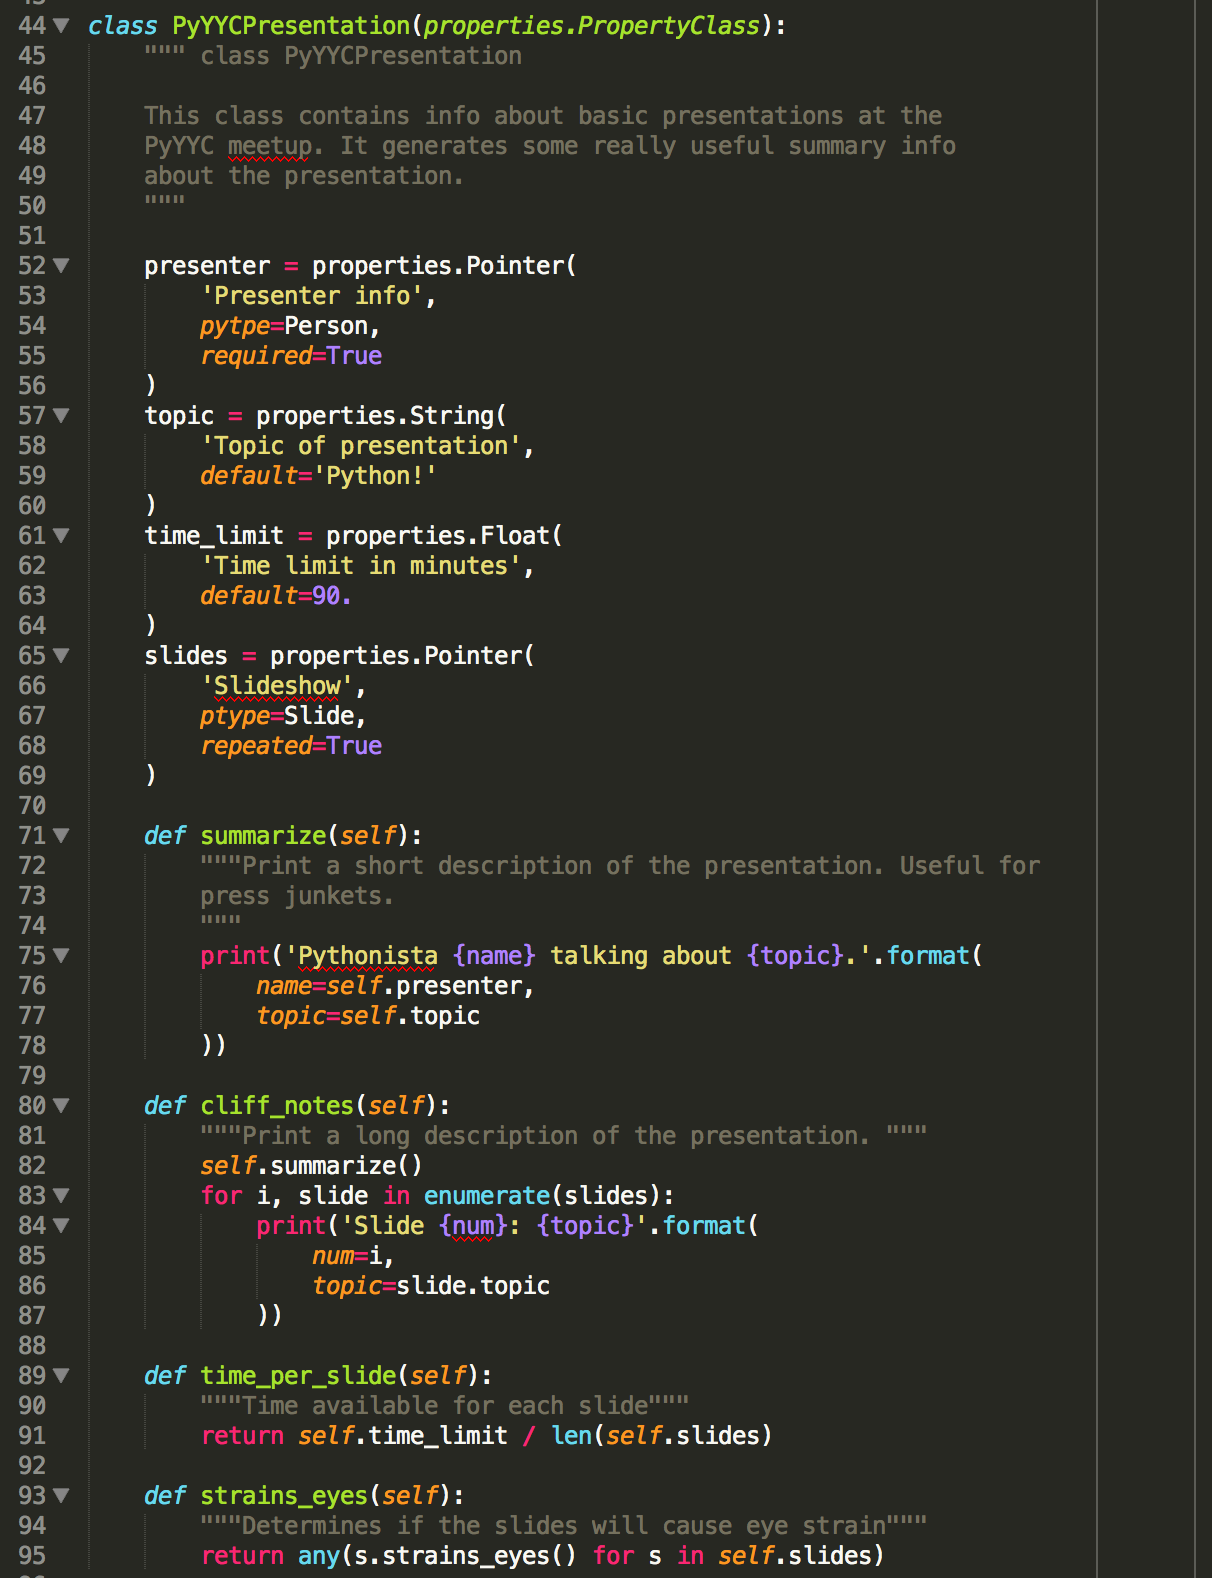
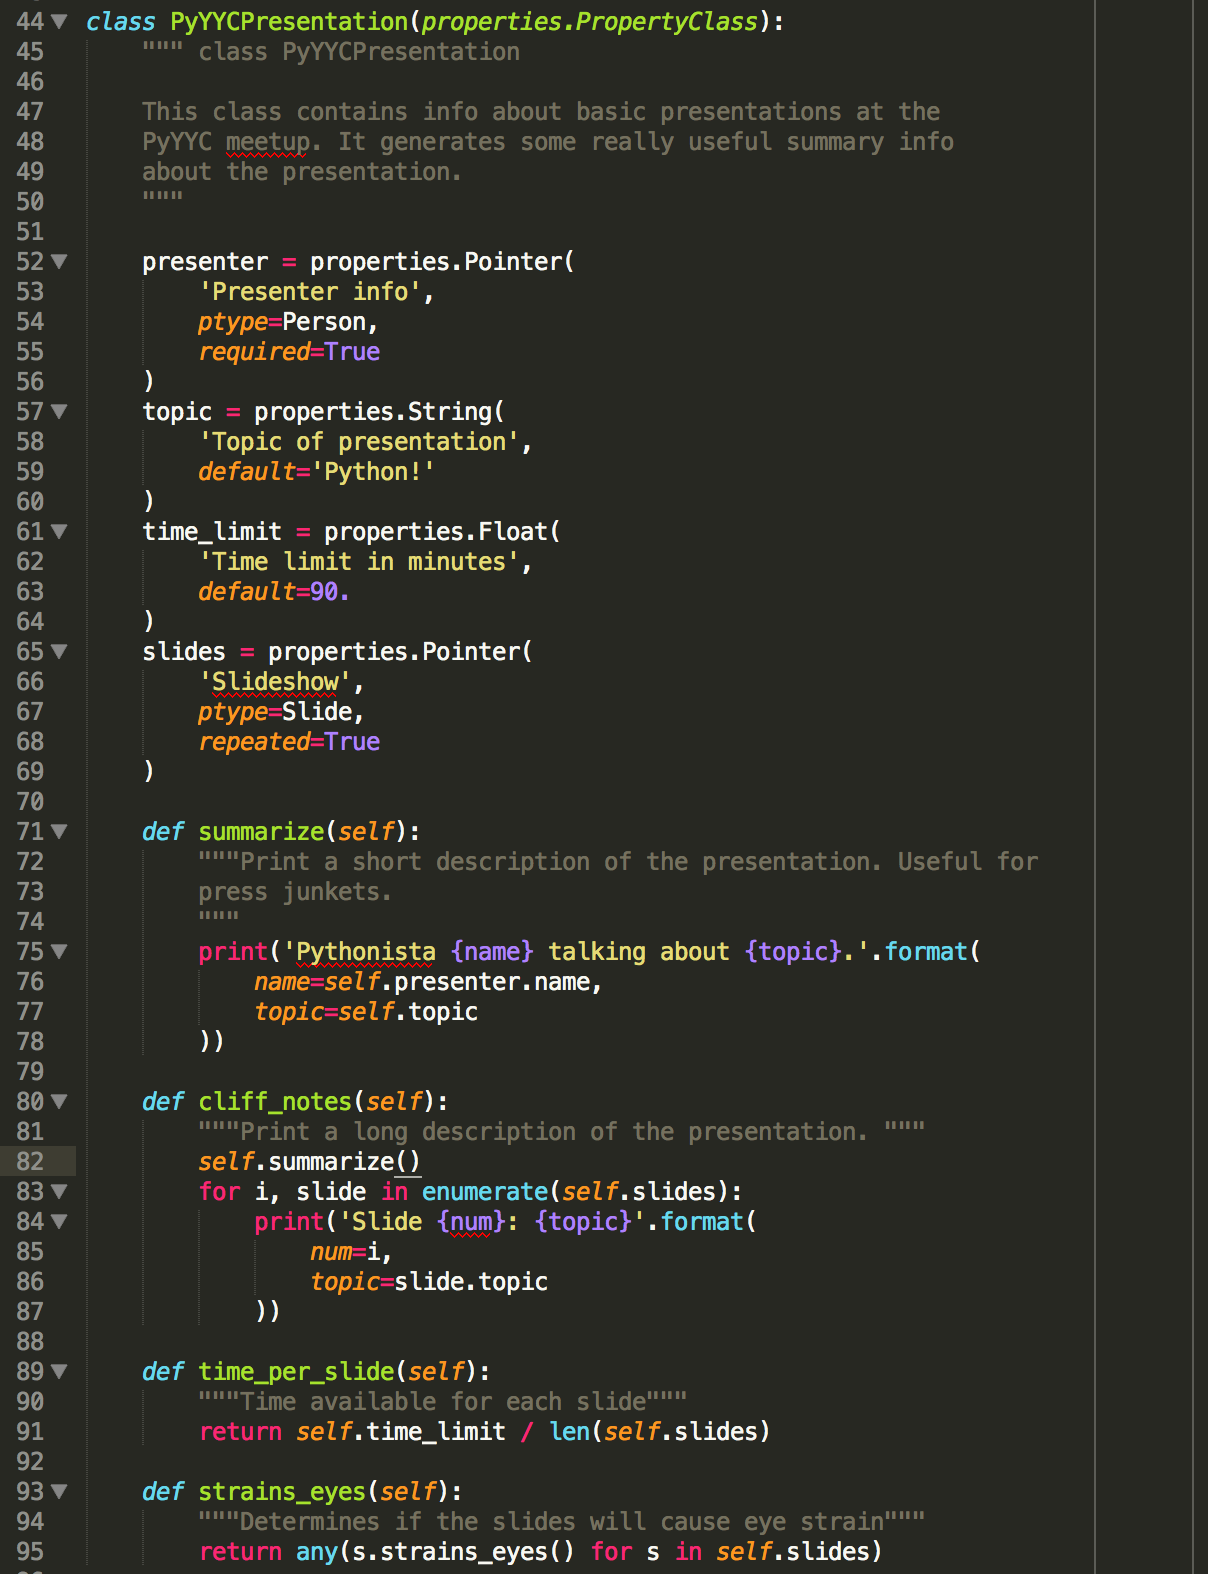
Minor changes, new images

diff --git a/pyyyc_v18.py b/pyyyc_v18.py
@@ -32,7 +32,7 @@ class Slide(properties.PropertyClass):
         default='Python!'
     )
     slide_color = properties.Color(
-        'Color of the slides'
+        'Color of the slides',
         default='white'
     )
 
@@ -51,7 +51,7 @@ class PyYYCPresentation(properties.PropertyClass):
 
     presenter = properties.Pointer(
         'Presenter info',
-        pytpe=Person,
+        ptype=Person,
         required=True
     )
     topic = properties.String(
@@ -73,14 +73,14 @@ class PyYYCPresentation(properties.PropertyClass):
         press junkets.
         """
         print('Pythonista {name} talking about {topic}.'.format(
-            name=self.presenter,
+            name=self.presenter.name,
             topic=self.topic
         ))
 
     def cliff_notes(self):
         """Print a long description of the presentation. """
         self.summarize()
-        for i, slide in enumerate(slides):
+        for i, slide in enumerate(self.slides):
             print('Slide {num}: {topic}'.format(
                 num=i,
                 topic=slide.topic

diff --git a/pyyyc_v15.py b/pyyyc_v15.py
@@ -136,14 +136,6 @@ class PyYYCPresentation(WithSpecialProps):
     This class contains info about basic presentations at the
     PyYYC meetup. It generates some really useful summary info
     about the presentation.
-
-    Properties:
-        presenter   - Name of the presenter
-        topic       - Brief explanation of the topic
-        time_limit  - Time limit of the presentation
-        nslides     - Number of slides (because all presentations
-                      have slides!)
-        slide_color - RGB color of all the slides
     """
 
     presenter = StrProp('Name of the presenter')
